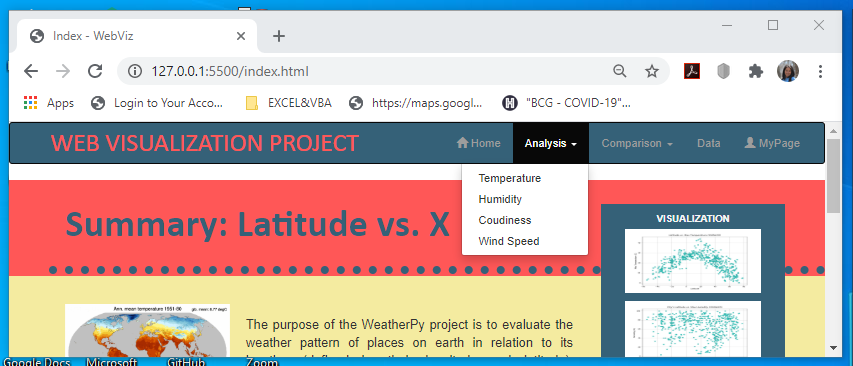
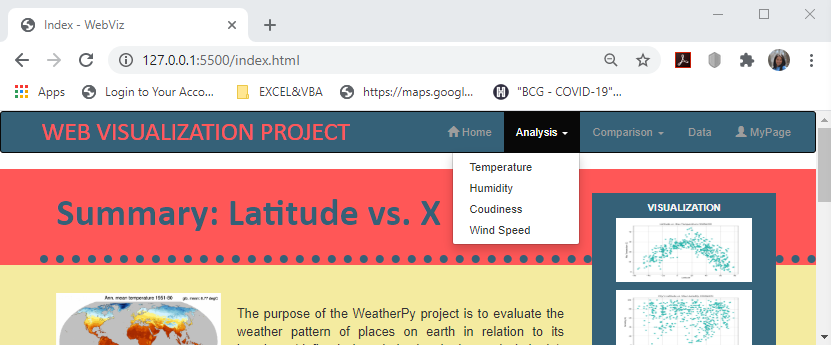
links

diff --git a/index.html b/index.html
@@ -72,12 +72,20 @@
       <div class="col-sm-9 col-lg-10">
           <img src="Images/UDEL_climo_5180.png" class=LandPgImage>
           <p class="BodyFont">
-            The purpose of the WeatherPy project is to evaluate the weather pattern of places on earth in relation to its location (defined by their longitude and latitude), especially in regards to its Longitude. The weather elements that we analyze are max temperature, humidity, cloudiness, and wind speed.<br><br>
+            The purpose of the WeatherPy project is to evaluate the weather pattern of places on earth in relation to its location 
+            (defined by their longitude and latitude). The weather elements that we analyze are 
+            <a href="HTML/V1.html">temperature</a>, 
+            <a href="HTML/V2.html">humidity</a>, 
+            <a href="HTML/V3.html">cloudiness</a>, and 
+            <a href="HTML/V4.html">wind speed</a>.<br><br>
+            
             The hypothesis is that a place's location on earth impacts its weather characteristics. Among the  hypothesis that we want to prove are :<br> 
             - “the further a city from the equator the lowest their maximum temperature is” <br> 
             - “places with similar distance from the equator, have similar weather patterns”<br> <br> 
             To do this evaluation, we created random sample lists of cities that represent various areas of the world (e.g. Southern Hemisphere, The Tropics). The weather data of the day’s data (June 20, 2020) then be obtained through performing API queries. We then created visualization, performed regression analysis, and examined the patterns. To look if other location factors impact weather conditions, we group the cities that have similar longitude and latitude. Base on latitude, we group the cities as the American; Europe, Africa, and the Middle East; and Asia and Australia. <br><br>  
-            The data used for this analysis is obtained from python library’s citipy and OpenWeatherMap. The  dataset from OpenWeatherMap includes City_ID, City, Cloudiness, Country, Date, Humidity, Lat, Lng, Max, Temp ,Wind Speed.<br>
+            The data used for this analysis is obtained from python library’s citipy and OpenWeatherMap. 
+            Click <a href="HTML/Data.html"><span class="badge badge-pill badge-light">data</span></a> to evaluate the detail weather data of those cities.<br>
+          
           </p>
       </div>
       <!--Menu Box-->

diff --git a/HTML/style.css b/HTML/style.css
@@ -88,6 +88,10 @@ hr.new3 {
   float: left;
   box-shadow: grey 20px;
 }
+/*
+a:hover, a:active {
+  background-color: red;
+}*/
 .VisImage{
   width: 49%;
   box-shadow: grey 20px;
@@ -197,7 +201,7 @@ screen smaller than 1180 pixels */
 screen smaller than 780 pixels */
 @media (max-width: 780px) {
   #Project_Font{
-    font-size: 18pt;}
+    font-size: 16pt;}
   .HeadBox{
     padding: 10px;
     height: 90px;}
@@ -208,7 +212,7 @@ screen smaller than 780 pixels */
       font-size: 9pt;
       color: black;}
   t1{
-    font-size: 26pt;
+    font-size: 24pt;
     font-weight: 400;
     margin-left: 10px;}
   t2{
